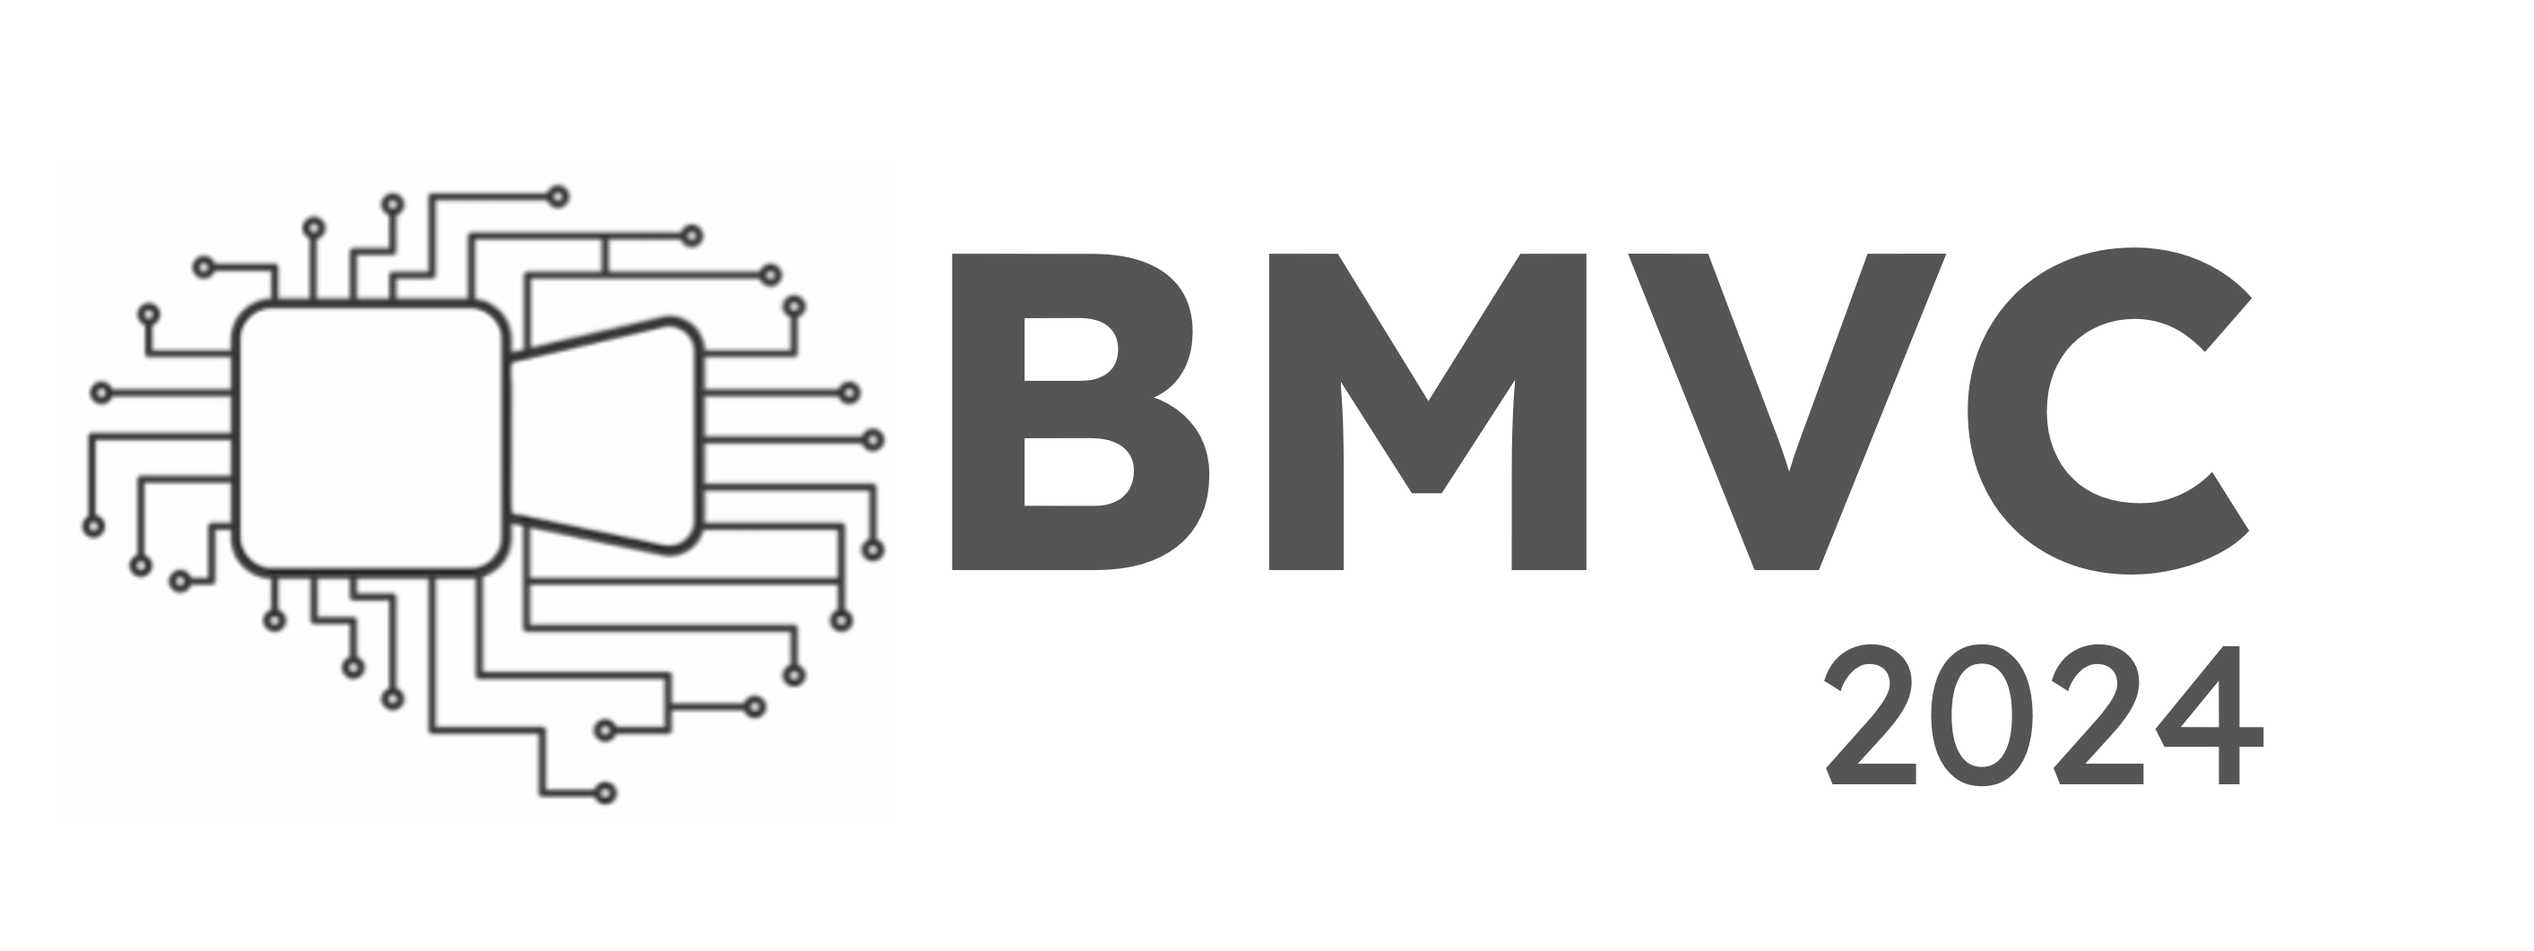
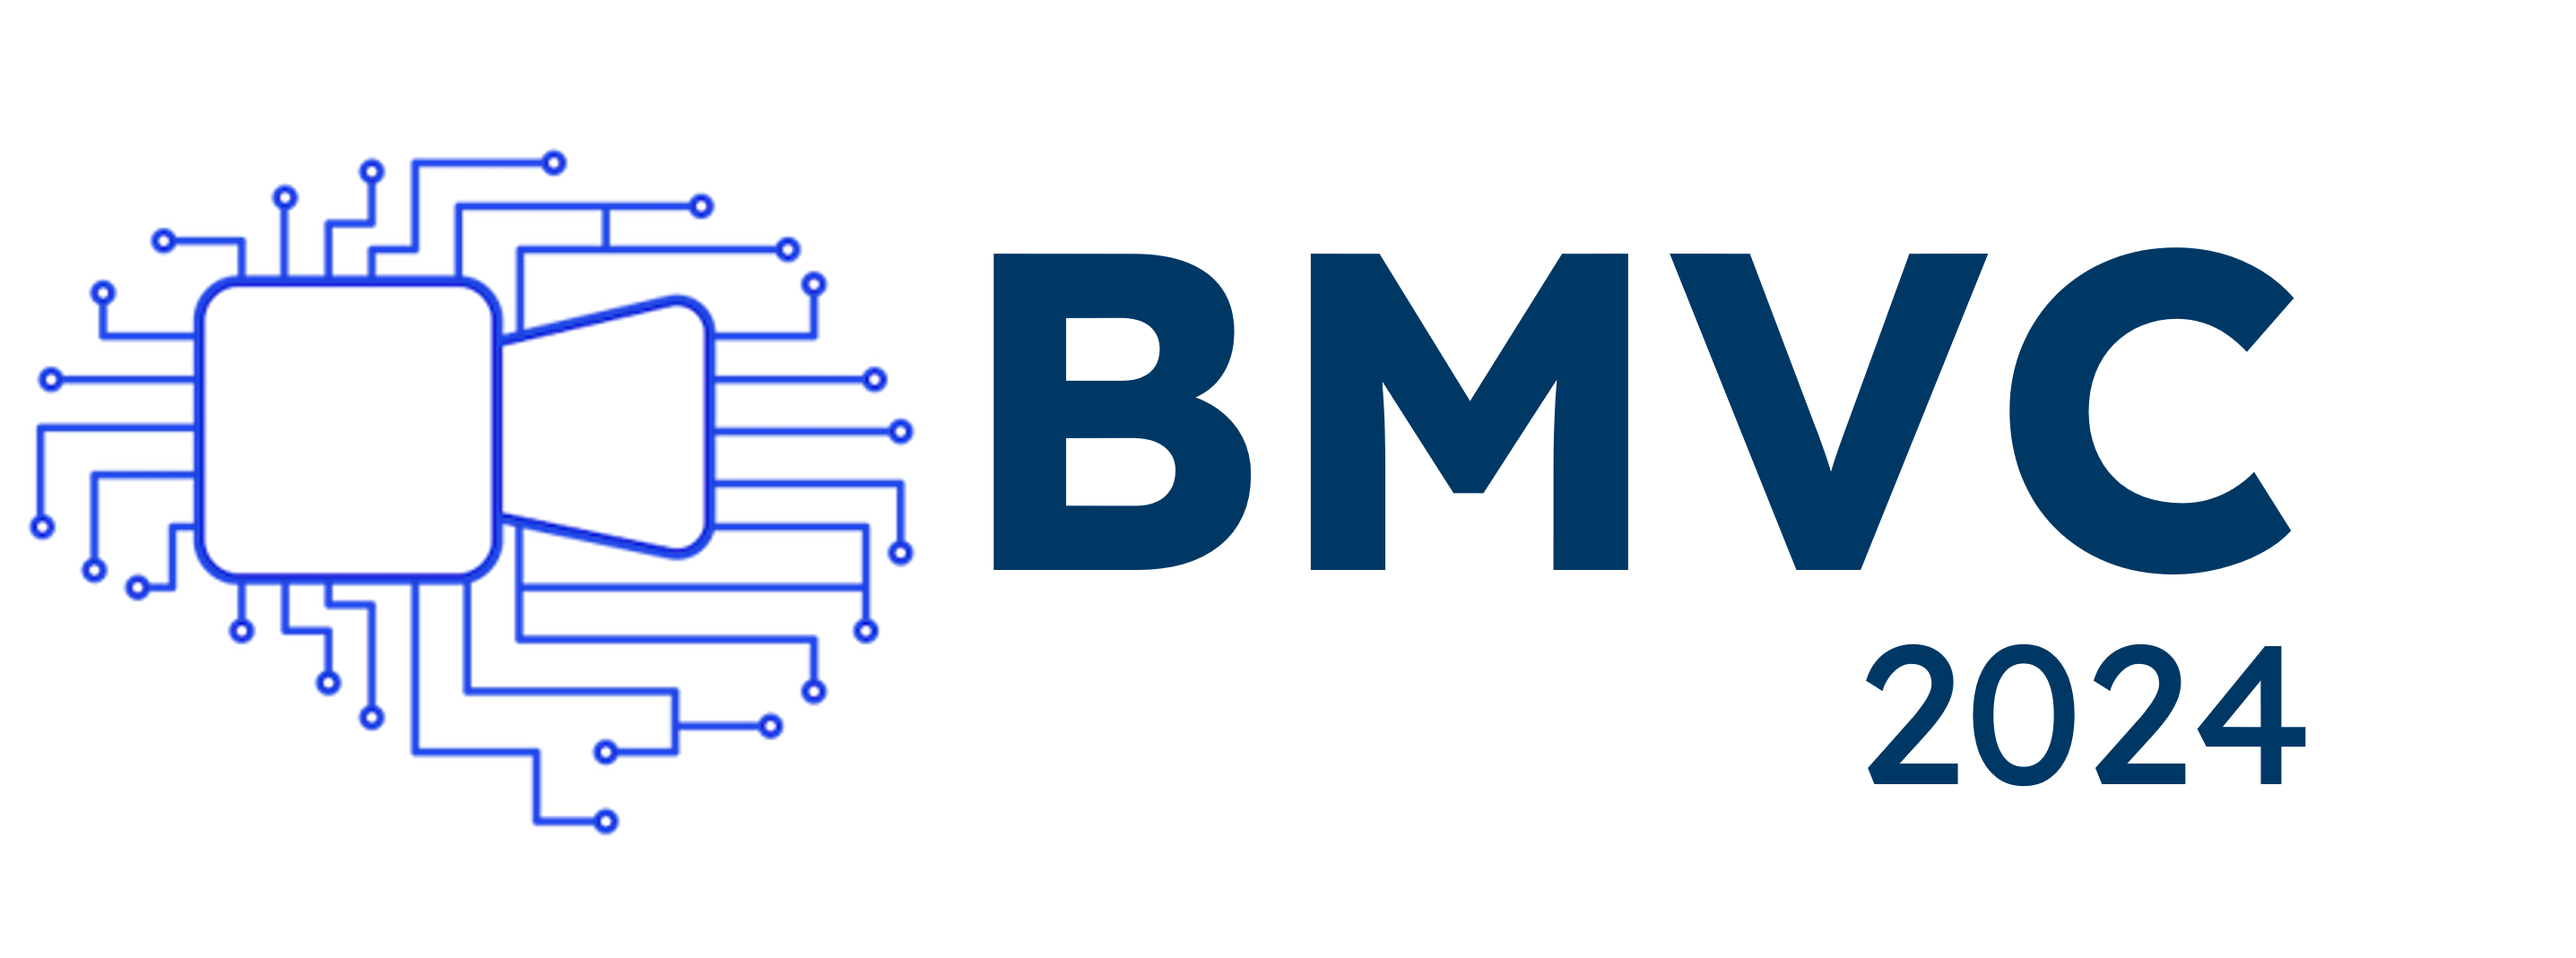
call for papers social media

Changed region(s): [[0.0, 0.1555, 0.9027, 0.8709], [0.716, 0.6532, 0.9027, 0.8398]]

diff --git a/_includes/events_sidebar.html b/_includes/events_sidebar.html
@@ -23,17 +23,17 @@
 <br hidden>
 
 
-<div class="card" hidden>
+<div class="card">
   <h5 class="card-header" style="text-align: center;">News</h5>
   <ul style="line-height: 1.5; padding: 20px 30px 10px 20px; padding-inline-start: 40px;"> 
  </li>
-    <li><strong>[28 Sep.]</strong> The conference schedule is available now: <a href="https://bmvc2023.org/programme/schedule/">[link]</a>.</li>
-    <li><strong>[29 Aug.]</strong> BMVC is now CORE rank A.</li>
-    <li><strong>[22 Aug.]</strong> The complete list of accepted papers is available now: <a href="https://bmvc2023.org/files/accepted_papers.txt">[link]</a>.</li>
-    <li><strong>[21 Jun.]</strong> Conference registration is available now.: <a href="https://bmvc2023.org/attending/registration/">[link]</a>.</li>
-    <li><strong>[4 Apr.]</strong> The CMT submission site is open: <a href="https://cmt3.research.microsoft.com/BMVC2023">[link]</a>.</li>
-    <li><strong>[20 Feb.]</strong> The "call for workshops" is now available here: <a href="https://www.bmvc2023.org/authors/call-for-workshops/">[link]</a>. Workshop proposal submission deadline: 5th May 2023. </li>
-    <li><strong>[17 Jan.]</strong> Paper abstract and submission deadlines are released, see the details here: <a href="https://bmvc2023.org/dates/">[link]</a>. </li>
+    <!-- <li><strong>[28 Sep.]</strong> The conference schedule is available now: <a href="https://bmvc2023.org/programme/schedule/">[link]</a>.</li> -->
+    <!-- <li><strong>[29 Aug.]</strong> BMVC is now CORE rank A.</li> -->
+    <!-- <li><strong>[22 Aug.]</strong> The complete list of accepted papers is available now: <a href="https://bmvc2023.org/files/accepted_papers.txt">[link]</a>.</li> -->
+    <!-- <li><strong>[21 Jun.]</strong> Conference registration is available now.: <a href="https://bmvc2023.org/attending/registration/">[link]</a>.</li> -->
+    <!-- <li><strong>[4 Apr.]</strong> The CMT submission site is open: <a href="https://cmt3.research.microsoft.com/BMVC2023">[link]</a>.</li> -->
+    <!-- <li><strong>[20 Feb.]</strong> The "call for workshops" is now available here: <a href="https://www.bmvc2023.org/authors/call-for-workshops/">[link]</a>. Workshop proposal submission deadline: 5th May 2023. </li> -->
+    <li><strong>[13 Feb.]</strong> <a href="{{ site.baseurl }}/dates/">Paper abstract and submission deadlines</a> are released. </li>
   </ul>
 </div>
 

diff --git a/_includes/header_full.html b/_includes/header_full.html
@@ -9,7 +9,7 @@
       </div>
       <div class="col-xs-6 col-sm-7 col-md-7 col-lg-9">
           <h1 style="text-align: right;"><span class="ndfc-brand">The 35<sup>th</sup> <b>British Machine Vision Conference</b>
-            <small style="color: #555555;"><b>{{ site.dates }}, Glasgow, UK</b></small></span></h1>
+            <small style="color: #003865;"><b>{{ site.dates }}, Glasgow, UK</b></small></span></h1>
           <!--<br class="hidden-lg-up d-lg-none">-->
       </div>
     </div>
@@ -18,7 +18,7 @@
       <div class="col-xs-12 mx-auto">
         <div class="pl-4 pr-4 pb-1"><img class="img-fluid align-self-start" src="{{ site.baseurl }}{{ site.logo }}" alt="BMVC 2024 Logo"></div>
         <h2 style="text-align: center;"><span class="ndfc-brand">The 35<sup>th</sup> <b>British Machine Vision Conference</b></span>
-          <small style="color: #555555;"><b>{{ site.dates }}, Glasgow, UK</b></small></h2>
+          <small style="color: #003865;"><b>{{ site.dates }}, Glasgow, UK</b></small></h2>
       </div>
   </div>
 

diff --git a/_includes/navbar.html b/_includes/navbar.html
@@ -20,9 +20,9 @@
 
           {% if item.meeting-title %}
           {% assign date_format = item.date | date: '%d/%m/%Y' %}
-          <li class="nav-item dropdown {% if page_active == true %}active{% endif %} date-filter" data-date-filter="{{ date_format }}">
+            <li class="nav-item dropdown {% if page_active == true %}active{% endif %} date-filter" data-date-filter="{{ date_format }}">
           {% else %}
-          <li class="nav-item dropdown {% if page_active == true %}active{% endif %}">
+            <li class="nav-item dropdown {% if page_active == true %}active{% endif %}">
           {% endif %}
 
             <a class="nav-link dropdown-toggle" href="{{ site.baseurl }}{{ item.url }}" id="navbarDropdownMenuLink" role="button" data-toggle="dropdown" aria-haspopup="true" aria-expanded="false">{{ item.title }}</a>

diff --git a/assets/css/ndfc.css b/assets/css/ndfc.css
@@ -31,15 +31,15 @@ a.anchor { display: block; position: relative; top: -150px; visibility: hidden; 
 }
 
 .ndfc-brand {
-	color: #0070C0;/*#555676; /*#EF8232;*/ /*Dark colour - 7F004B*/
+	color: #003865;/*#555676; /*#EF8232;*/ /*Dark colour - 7F004B*/
 }
 
 a {
-	color: #0070C0;/*#7b4dcd; /*#6293A6;/*#6DB3E4;*/
+	color: #003865;/*#7b4dcd; /*#6293A6;/*#6DB3E4;*/
 }
 
 a:hover {
-	color: #013357;/*#555676; /*#3D5B67;/*#3D5B67;*/
+	color: #003865;/*#555676; /*#3D5B67;/*#3D5B67;*/
 }
 
 /*

diff --git a/authors/call-for-papers.md b/authors/call-for-papers.md
@@ -67,15 +67,15 @@ Topics include, but are not limited to:
 
 Papers submitted under the "Brave new ideas" subject area are expected to move away from incremental benchmark gains. Proposed ideas should radically differ from the current research strand or propose a novel problem.
 
-### Reviewing Process BMVC 2024
+### Reviewing Process for BMVC 2024
 
-- Each paper will be reviewed by at least three reviewers. The Area Chair will provide a meta-review, summarising the reviewers' points and recommending a paper decision.
+- Each paper will be reviewed by at least three reviewers. The Area Chair will provide a meta-review, summarising the reviewers' points and recommending paper decisions.
 
-- The authors will have a period to produce a rebuttal to address the reviewers' points to the Area Chair only. Authors with papers accepted will need to incorporate reviewers' suggestions before the final camera-ready submission.
+- The authors will have a period to produce a rebuttal to address the reviewers' points. Authors with papers accepted will need to incorporate reviewers' suggestions before the final camera-ready submission.
 
-<!-- - The rebuttal will be handled by only by one Area Chair who will facilitate paper discussion ebtween reviewers and and request . Conflicts will be jointly managed by the ACs and Paper Selection Chairs. -->
+- The rebuttal will be handled by only by one Area Chair who will facilitate paper discussion between reviewers and request reviewers to clarify or revise their review. Conflicts will be managed by the ACs and Programme Chairs.
 
 **Please Note:** Due to the anticipated volume of papers for BMVC 2024 (based on recent year's experience), there will be NO extension granted to the submission deadline. In keeping with conferences in the field (e.g., [NeurIPS](https://neurips.cc), [CVPR](https://cvpr2022.thecvf.com)) and to cope with the increasing number of submissions, we ask that all authors be prepared to review papers. The submission site will ask authors to acknowledge this commitment, and failure to engage with the reviewing process might be grounds for rejection.
 
-Any queries to the Programme Chairs should be sent to [bmvc2024@googlegroups.com](mailto:bmvc2024@googlegroups.com).
+Any queries to the Programme Chairs should be sent to <a href="mailto:{{ site.email }}"> {{ site.email }}</a>.
 

diff --git a/sponsorship.md b/sponsorship.md
@@ -61,7 +61,7 @@ permalink: /sponsors/
     <!-- <p>If you are interested in sponsoring BMVC 2024, please email <a href="mailto:sponsors@bmvc2024.org">sponsors@bmvc2024.org</a> 
       for more information. The deadline for expressing interest in sponsoring BMVC is <b>30th Septemeber 2024</b>. Thank you so much! -->
     <p>Sponsoring BMVC2024 is the perfect opportunity to showcase your company's excellent work throughout the conference. As a sponsor, you will be provided with an exhibition stand to promote your business and work, and numerous opportunities will be available to engage with academic and industrial researchers in the field to explore potential future collaborations. We are open to customising the sponsorship package to best suit your needs, e.g. an industrial paper track to demonstrate select BMVC papers and an industrial night to socialise and forge new partnerships.</p>
-    <p>If you are interested in sponsoring BMVC 2024, please email <a href="mailto:bmvc2024@googlegroups.com">bmvc2024@googlegroups.com</a>. The deadline for expressing interest in sponsoring BMVC is <b>30th Septemeber 2024</b>.</p>
+    <p>If you are interested in sponsoring BMVC 2024, please email <a href="mailto:{{ site.email }}"> {{ site.email }}</a>. The deadline for expressing interest in sponsoring BMVC is <b>30th Septemeber 2024</b>.</p>
 </div>
 
 <div class="row pl-2 pr-2 pt-2 pb-2 mx-auto justify-content-center">

diff --git a/index.md b/index.md
@@ -11,7 +11,7 @@ The British Machine Vision Conference (BMVC) is the British Machine Vision Assoc
 
 <div class="alert mt-3 alert-info" style="">
 
-<h5>BMVC'24 will be held in Glasgow!</h5>
+<h6>BMVC'24 will be held in Glasgow!</h6>
 
 </div>
 
@@ -23,9 +23,9 @@ The 35th BMVC will be held from 25th - 28th November 2024. We invite papers to b
 <!-- [call for papers]({{site.baseurl}}{% link authors/call-for-papers.md %}) -->
 
 <div class="row no-gutters pt-0 d-xs-block {%comment%}d-xl-none{%endcomment%}">
-    <!-- <div class="mb-1 pl-2 pr-2 mx-auto mx-sm-left col-xs-auto">
+    <div class="mb-1 pl-2 pr-2 mx-auto mx-sm-left col-xs-auto">
         <p style="text-align: center;"><a class="btn btn-primary" role="button" href="{{site.baseurl}}{% link authors/call-for-papers.md %}">See the Call for Papers</a></p>
-    </div> -->
+    </div>
     <div class="mb-1 pl-2 pr-2 mx-auto mx-sm-left col-xs-auto">
         <p style="text-align: center;"><a class="btn btn-primary" role="button" href="{{site.baseurl}}{% link dates.md %}">See the timeline</a></p>
     </div>

diff --git a/people/organisers.md b/people/organisers.md
@@ -171,6 +171,14 @@ index: 0
     </div>
 </div>
 
+<div class="col-6 col-md-4 col-lg-3">
+    <div class="text-center">
+        <img src="../../imgs_2024/Zijun_Long.jpg" class="rounded-circle img-fluid" style="max-width: 125px;">
+        <h4 class="pt-2"><a href="https://www.linkedin.com/in/zijun-long-10a273197/">Zijun Long</a></h4>
+        <p class="pb-2">Johns Hopkins University</p>
+    </div>
+</div>
+
 </div>
 <br>
 <br>
